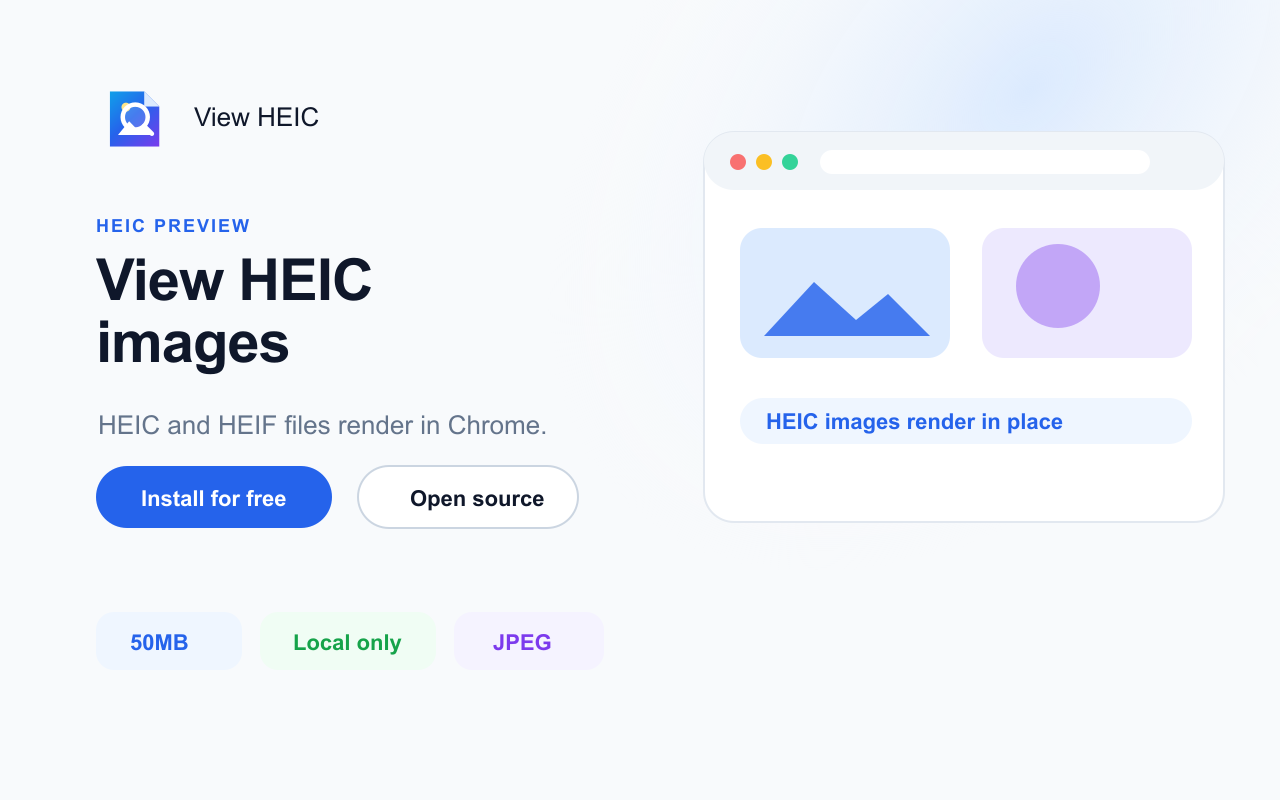
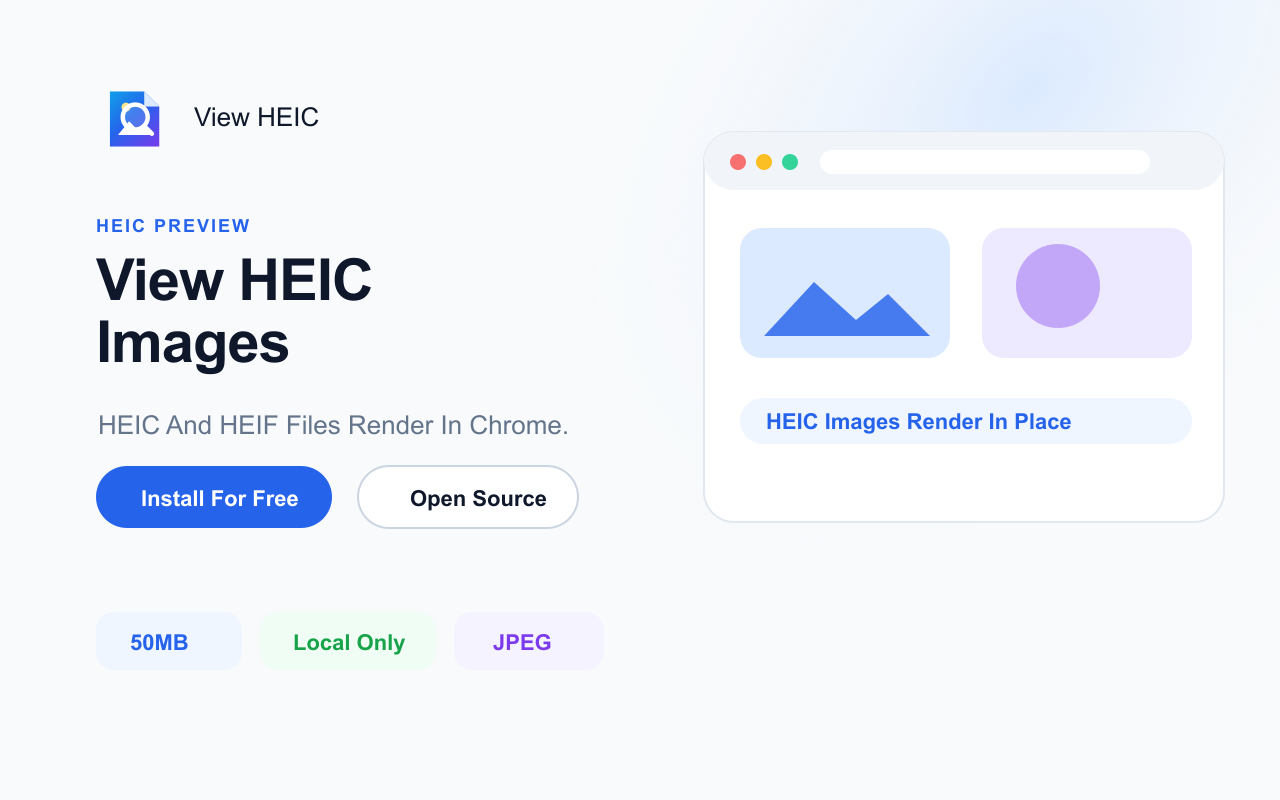
fix: 统一英文标题大小写

diff --git a/docs/index.html b/docs/index.html
@@ -3,7 +3,7 @@
   <head>
     <meta charset="UTF-8" />
     <meta name="viewport" content="width=device-width, initial-scale=1.0" />
-    <title>View HEIC - View HEIC / HEIF images directly in your browser</title>
+    <title>View HEIC - View HEIC / HEIF Images Directly In Your Browser</title>
     <meta
       name="description"
       content="A free open-source Chrome extension that displays HEIC and HEIF images directly on web pages with local conversion and zero setup."
@@ -16,13 +16,13 @@
     <link rel="icon" href="./assets/logo.svg" type="image/svg+xml" />
 
     <meta property="og:type" content="website" />
-    <meta property="og:title" content="View HEIC - View HEIC / HEIF images directly in your browser" />
+    <meta property="og:title" content="View HEIC - View HEIC / HEIF Images Directly In Your Browser" />
     <meta property="og:description" content="A free open-source Chrome extension that displays HEIC and HEIF images directly on web pages." />
     <meta property="og:url" content="https://vingeraycn.github.io/view-heic-browser-extension/" />
     <meta property="og:image" content="https://vingeraycn.github.io/view-heic-browser-extension/store-assets/01-browser-heic-preview.png" />
 
     <meta name="twitter:card" content="summary_large_image" />
-    <meta name="twitter:title" content="View HEIC - View HEIC / HEIF images directly in your browser" />
+    <meta name="twitter:title" content="View HEIC - View HEIC / HEIF Images Directly In Your Browser" />
     <meta name="twitter:description" content="A free open-source Chrome extension that displays HEIC and HEIF images directly on web pages." />
 
     <script src="https://cdn.tailwindcss.com"></script>
@@ -274,50 +274,50 @@
       const messages = {
         en: {
           lang: 'en',
-          title: 'View HEIC - View HEIC / HEIF images directly in your browser',
+          title: 'View HEIC - View HEIC / HEIF Images Directly In Your Browser',
           description: 'A free open-source Chrome extension that displays HEIC and HEIF images directly on web pages with local conversion and zero setup.',
           nav: [
             ['features', 'Features'],
-            ['how-it-works', 'How it works'],
+            ['how-it-works', 'How It Works'],
             ['demo', 'Demo'],
             ['faq', 'FAQ'],
           ],
           installShort: 'Install',
           heroBadge: 'Version 1.0.11 · Fast JPEG preview by default',
-          heroTitle: 'View HEIC images directly in your browser.',
+          heroTitle: 'View HEIC Images Directly In Your Browser.',
           heroLead: 'View HEIC is a free open-source Chrome extension that detects HEIC and HEIF images on web pages, converts them locally, and renders them in place without configuration.',
-          primaryCta: 'Add to Chrome for free',
-          secondaryCta: 'View source on GitHub',
-          githubCta: 'GitHub project',
-          heroMockStatus: 'HEIC image converted locally',
-          trust: ['Local conversion', 'No uploads', 'HEIC / HEIF support', 'Open source'],
+          primaryCta: 'Add To Chrome For Free',
+          secondaryCta: 'View Source On GitHub',
+          githubCta: 'GitHub Project',
+          heroMockStatus: 'HEIC Image Converted Locally',
+          trust: ['Local Conversion', 'No Uploads', 'HEIC / HEIF Support', 'Open Source'],
           stats: [
-            ['50MB', 'Maximum file size'],
+            ['50MB', 'Maximum File Size'],
             ['6', 'Recognized HEIC brands'],
-            ['JPEG', 'Default preview format'],
-            ['0', 'Server uploads'],
+            ['JPEG', 'Default Preview Format'],
+            ['0', 'Server Uploads'],
           ],
-          featuresTitle: 'Built for the HEIC gap on the web',
+          featuresTitle: 'Built For The HEIC Gap On The Web',
           featuresLead: 'The extension handles real-world web pages, strict browser security rules, and common HEIC edge cases without asking users to manually convert files.',
           features: [
-            ['Automatic detection', 'Scans existing and dynamically inserted images, including HEIC and HEIF URLs added after page load.'],
-            ['First-frame sequence preview', 'Recognizes HEIC sequence brands such as msf1, hevc, and hevx, then previews the first frame by default to keep pages responsive.'],
-            ['Magic-byte validation', 'Reads ISO BMFF brands from file headers, so HEIC files can still be handled when servers send an incorrect MIME type.'],
-            ['Smart cache', 'Stores converted results as Blob URLs and deduplicates concurrent work so the same image is converted only once.'],
-            ['Private by design', 'All decoding runs in the browser through WebAssembly. Image data never leaves the device.'],
-            ['CSP compatible', 'Uses the heic-to/csp variant to fit Manifest V3 content security requirements on strict websites.'],
+            ['Automatic Detection', 'Scans existing and dynamically inserted images, including HEIC and HEIF URLs added after page load.'],
+            ['First-Frame Sequence Preview', 'Recognizes HEIC sequence brands such as msf1, hevc, and hevx, then previews the first frame by default to keep pages responsive.'],
+            ['Magic-Byte Validation', 'Reads ISO BMFF brands from file headers, so HEIC files can still be handled when servers send an incorrect MIME type.'],
+            ['Smart Cache', 'Stores converted results as Blob URLs and deduplicates concurrent work so the same image is converted only once.'],
+            ['Private By Design', 'All decoding runs in the browser through WebAssembly. Image data never leaves the device.'],
+            ['CSP Compatible', 'Uses the heic-to/csp variant to fit Manifest V3 content security requirements on strict websites.'],
           ],
-          howTitle: 'How it works',
+          howTitle: 'How It Works',
           howLead: 'Install once, browse normally, and let HEIC images render in place.',
           steps: [
-            ['1', 'Install the extension', 'Add View HEIC from the Chrome Web Store with no extra setup.'],
-            ['2', 'Browse normally', 'Open any page with HEIC or HEIF images. The content script monitors the page.'],
-            ['3', 'See the image', 'The extension converts compatible images to JPEG Blob URLs and swaps them in place.'],
+            ['1', 'Install The Extension', 'Add View HEIC from the Chrome Web Store with no extra setup.'],
+            ['2', 'Browse Normally', 'Open any page with HEIC or HEIF images. The content script monitors the page.'],
+            ['3', 'See The Image', 'The extension converts compatible images to JPEG Blob URLs and swaps them in place.'],
           ],
-          flowTitle: 'Internal conversion flow',
-          flow: ['Page <img>', 'fetch(src)', 'Magic-byte check', 'libheif WebAssembly decode', 'Blob URL replacement'],
+          flowTitle: 'Internal Conversion Flow',
+          flow: ['Page <img>', 'fetch(src)', 'Magic-Byte Check', 'libheif WebAssembly Decode', 'Blob URL Replacement'],
           flowNote: 'HEIC sequences use a first-frame preview by default. Experimental animation support can be enabled in code if needed.',
-          demoTitle: 'Live HEIC demo',
+          demoTitle: 'Live HEIC Demo',
           demoLead: 'The files below are real HEIC samples. After installing the extension, they are converted and displayed automatically.',
           detecting: 'Checking extension status...',
           detected: 'View HEIC is running. The images below are being converted automatically.',
@@ -329,29 +329,29 @@
           failed: 'Failed',
           processing: 'Converting',
           demoCases: [
-            ['example.heic', 'Standard HEIC', '1.1 MB', 'Large file performance'],
-            ['small-test.heic', 'Nokia sample', '873 KB', 'Format compatibility'],
-            ['medium-test.heic', 'Small HEIC', '219 KB', 'Fast processing'],
-            ['corrupted-test.heic', 'Broken file', '78 B', 'Graceful fallback'],
+            ['example.heic', 'Standard HEIC', '1.1 MB', 'Large File Performance'],
+            ['small-test.heic', 'Nokia Sample', '873 KB', 'Format Compatibility'],
+            ['medium-test.heic', 'Small HEIC', '219 KB', 'Fast Processing'],
+            ['corrupted-test.heic', 'Broken File', '78 B', 'Graceful Fallback'],
           ],
-          dynamicTitle: 'Dynamic image test',
+          dynamicTitle: 'Dynamic Image Test',
           dynamicLead: 'Validate that images inserted by JavaScript are still picked up by the extension through MutationObserver.',
-          dynamicButton: 'Add dynamic HEIC image',
-          counters: ['Successful conversions', 'Failed conversions', 'Total images'],
+          dynamicButton: 'Add Dynamic HEIC Image',
+          counters: ['Successful Conversions', 'Failed Conversions', 'Total Images'],
           installTitle: 'Install View HEIC',
           installLead: 'Choose the store build for normal use, or load the project manually for development.',
           installCards: [
-            ['Recommended', 'Chrome Web Store', ['Open the Chrome Web Store listing.', 'Click Add to Chrome.', 'Confirm the browser prompt and refresh pages that contain HEIC images.'], 'Go to Chrome Web Store'],
-            ['For developers', 'Manual installation', ['Clone the repository and install dependencies.', 'Run pnpm build.', 'Open chrome://extensions/, enable Developer mode, and load .output/chrome-mv3.'], 'View developer guide'],
+            ['Recommended', 'Chrome Web Store', ['Open the Chrome Web Store listing.', 'Click Add to Chrome.', 'Confirm the browser prompt and refresh pages that contain HEIC images.'], 'Go To Chrome Web Store'],
+            ['For Developers', 'Manual Installation', ['Clone the repository and install dependencies.', 'Run pnpm build.', 'Open chrome://extensions/, enable Developer mode, and load .output/chrome-mv3.'], 'View Developer Guide'],
           ],
-          techTitle: 'Technology and architecture',
+          techTitle: 'Technology And Architecture',
           tech: [
             ['WXT Framework', 'Modern browser extension framework powered by Vite.'],
             ['TypeScript', 'Typed modules for maintainable extension logic.'],
             ['heic-to 1.5.2', 'Conversion engine based on libheif 1.22.2 with CSP support.'],
             ['heic-decode 2.1', 'Sequence decoding capability kept available for future animation work.'],
           ],
-          structureTitle: 'Project structure',
+          structureTitle: 'Project Structure',
           structureCode: `view-heic-browser-extension/
 ├── entrypoints/
 │   ├── content.ts           # DOM scan and MutationObserver
@@ -363,19 +363,19 @@
 └── docs/                    # GitHub Pages website and demo files`,
           faqTitle: 'FAQ',
           faqs: [
-            ['Images still do not display after installation. What should I check?', 'Make sure the extension is enabled, refresh the page, and open DevTools to confirm the View HEIC content script loaded. If the source server blocks cross-origin fetching, open the original image in a new tab.'],
-            ['Are images uploaded to a server?', 'No. Decoding happens locally in your browser through WebAssembly. Converted images live as Blob URLs in the current tab and are released when the page closes.'],
-            ['Does it support Firefox?', 'The codebase is built with WXT and can build a Firefox target with pnpm build:firefox. The current store listing is for Chromium browsers.'],
-            ['What is the maximum HEIC file size?', 'The default limit is 50 MB. It is configured in utils/constants.ts as CONFIG.MAX_FILE_SIZE.'],
-            ['How are animated HEIC files handled?', 'Sequence HEIC files are detected by ISO BMFF brands such as msf1, hevc, or hevx. The extension previews the first frame by default to avoid expensive multi-frame decoding.'],
+            ['Images Still Do Not Display After Installation. What Should I Check?', 'Make sure the extension is enabled, refresh the page, and open DevTools to confirm the View HEIC content script loaded. If the source server blocks cross-origin fetching, open the original image in a new tab.'],
+            ['Are Images Uploaded To A Server?', 'No. Decoding happens locally in your browser through WebAssembly. Converted images live as Blob URLs in the current tab and are released when the page closes.'],
+            ['Does It Support Firefox?', 'The codebase is built with WXT and can build a Firefox target with pnpm build:firefox. The current store listing is for Chromium browsers.'],
+            ['What Is The Maximum HEIC File Size?', 'The default limit is 50 MB. It is configured in utils/constants.ts as CONFIG.MAX_FILE_SIZE.'],
+            ['How Are Animated HEIC Files Handled?', 'Sequence HEIC files are detected by ISO BMFF brands such as msf1, hevc, or hevx. The extension previews the first frame by default to avoid expensive multi-frame decoding.'],
           ],
-          ctaTitle: 'Make HEIC images work on the web.',
+          ctaTitle: 'Make HEIC Images Work On The Web.',
           ctaLead: 'Install View HEIC for free and stop downloading files just to inspect them.',
           footerLead: 'A free open-source browser extension that displays HEIC and HEIF images directly on web pages while keeping conversion local.',
           footerLinks: 'Links',
           footerProject: 'Project',
-          license: 'Open source under the MIT License.',
-          devTest: 'Developer test page',
+          license: 'Open Source under the MIT License.',
+          devTest: 'Developer Test Page',
         },
         zh: {
           lang: 'zh-CN',
